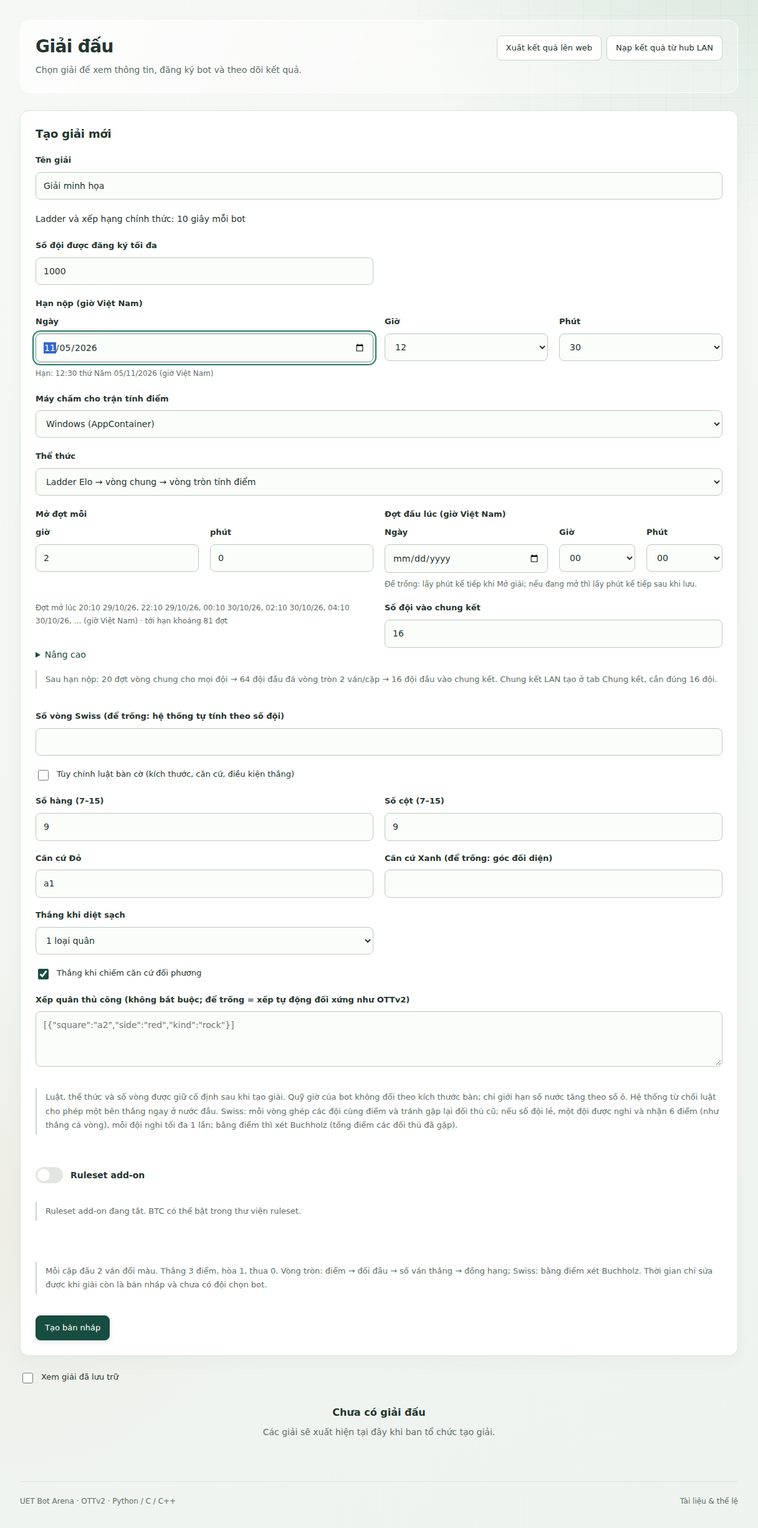
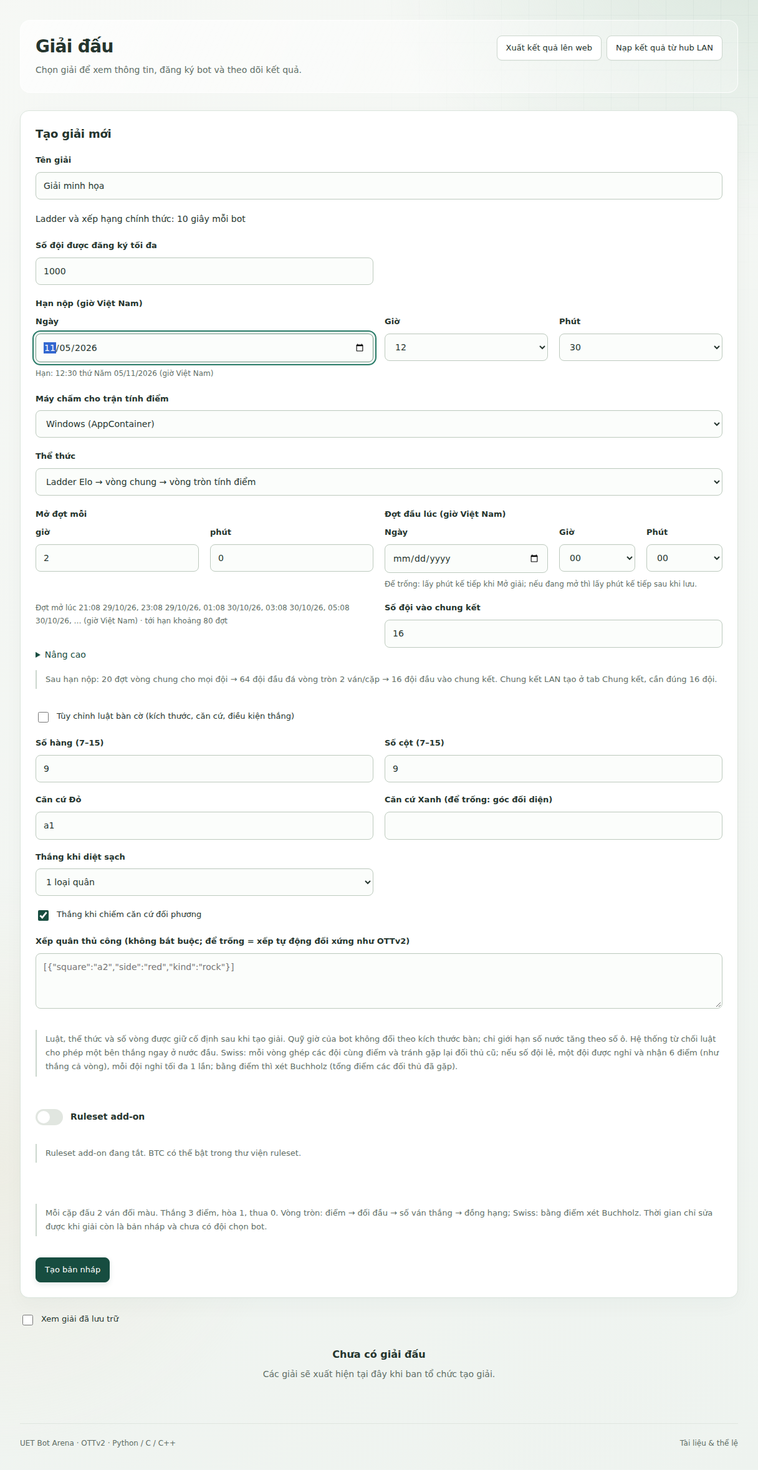
Thử nhanh ngay trên trang Luyện tập
Giữ luật bàn cờ Elo và luật đấu cũ; cập nhật test form và đội trưởng.

diff --git a/uet-bot-arena/dist/live/tournament-options.js b/uet-bot-arena/dist/live/tournament-options.js
@@ -33,7 +33,7 @@ export function updateLadderPreview(form){
 }
 
 export function tournamentOptions(){
-  return l10n`${vnDeadlineField('submission_deadline')}<label class="field"><span>Máy chấm cho trận tính điểm</span>${select('grader_platform',[['windows','Windows (AppContainer)'],['linux','Linux (bubblewrap)']])}</label><label class="field"><span>Thể thức</span>${select('format',[['elo',tr('Ladder Elo → vòng chung → vòng tròn tính điểm')],['double_round_robin',tr('Vòng tròn 2 lượt (tối đa 32 đội)')],['swiss',tr('Swiss (nhiều đội) · mỗi cặp 2 ván đổi màu')]])}</label><div data-elo-options><div class="form-grid">${ladderFields()}${field(tr('Số đội vào chung kết'),'finalists','min="1" max="128"','number','16')}</div><details><summary>Nâng cao</summary><div class="form-grid">${field(tr('Số đợt vòng chung'),'general-rounds','min="1" max="64"','number','20')}${field(tr('Số đội vòng tròn'),'group-size','min="2" max="128"','number','64')}${field(tr('Số ván chính thức đầu dùng K lớn'),'k-games','min="1"','number','20')}${field(tr('K ban đầu'),'first-k','min="1" max="64"','number','32')}${field(tr('K sau đó'),'later-k','min="1" max="64"','number','16')}</div>${note(tr('Vòng tròn: thắng 1, hòa ½, thua 0; không cập nhật Elo. Số đội không quá kích thước nhóm đầu thì bỏ vòng chung.'))}</details><p class="info-note" data-ranking-preview></p></div><p class="info-note" data-points-preview hidden>Xếp hạng theo điểm; không tự chọn đội chung kết.</p>${field(tr('Số vòng Swiss (để trống: hệ thống tự tính theo số đội)'),'rounds','min="1" max="64"','number')}<label class="check-field"><input type="checkbox" name="custom-basic">Tùy chỉnh luật bàn cờ (kích thước, căn cứ, điều kiện thắng)</label><div class="form-grid">${field(tr('Số hàng (7–15)'),'board-rows','min="7" max="15" required','number','9')}${field(tr('Số cột (7–15)'),'board-cols','min="7" max="15" required','number','9')}${field(tr('Căn cứ Đỏ'),'base-red','pattern="[a-o]([1-9]|1[0-5])" required','text','a1')}${field(tr('Căn cứ Xanh (để trống: góc đối diện)'),'base-blue','','text','')}<label class="field"><span>Thắng khi diệt sạch</span>${select('eliminate-types',[['1',tr('1 loại quân')],['2',tr('2 loại quân')]])}</label></div><label class="check-field"><input name="base-capture" type="checkbox" checked>Thắng khi chiếm căn cứ đối phương</label><label class="field"><span>Xếp quân thủ công (không bắt buộc; để trống = xếp tự động đối xứng như OTTv2)</span><textarea class="input" name="placement" rows="3" placeholder='[{"square":"a2","side":"red","kind":"rock"}]'></textarea></label>${note(tr('Luật, thể thức và số vòng được giữ cố định sau khi tạo giải. Quỹ giờ của bot không đổi theo kích thước bàn; chỉ giới hạn số nước tăng theo số ô. Hệ thống từ chối luật cho phép một bên thắng ngay ở nước đầu. Swiss: mỗi vòng ghép các đội cùng điểm và tránh gặp lại đối thủ cũ; nếu số đội lẻ, một đội được nghỉ và nhận 6 điểm (như thắng cả vòng), mỗi đội nghỉ tối đa 1 lần; bằng điểm thì xét Buchholz (tổng điểm các đối thủ đã gặp).'))}`;
+  return l10n`${vnDeadlineField('submission_deadline')}<label class="field"><span>Máy chấm cho trận tính điểm</span>${select('grader_platform',[['windows','Windows (AppContainer)'],['linux','Linux (bubblewrap)']])}</label><label class="field"><span>Thể thức</span>${select('format',[['elo',tr('Ladder Elo → vòng chung → vòng tròn tính điểm')],['double_round_robin',tr('Vòng tròn 2 lượt (tối đa 32 đội)')],['swiss',tr('Swiss (nhiều đội) · mỗi cặp 2 ván đổi màu')]])}</label><div data-elo-options><div class="form-grid">${ladderFields()}${field(tr('Số đội vào chung kết'),'finalists','min="1" max="128"','number','16')}</div><details><summary>Nâng cao</summary><div class="form-grid">${field(tr('Số đợt vòng chung'),'general-rounds','min="1" max="64"','number','20')}${field(tr('Số đội vòng tròn'),'group-size','min="2" max="128"','number','64')}${field(tr('Số ván chính thức đầu dùng K lớn'),'k-games','min="1"','number','20')}${field(tr('K ban đầu'),'first-k','min="1" max="64"','number','32')}${field(tr('K sau đó'),'later-k','min="1" max="64"','number','16')}</div>${note(tr('Vòng tròn: thắng 1, hòa ½, thua 0; không cập nhật Elo. Số đội không quá kích thước nhóm đầu thì bỏ vòng chung.'))}</details><p class="info-note" data-ranking-preview></p></div><p class="info-note" data-points-preview hidden>Xếp hạng theo điểm; không tự chọn đội chung kết.</p><div data-swiss-rounds hidden>${field(tr('Số vòng Swiss (để trống: hệ thống tự tính theo số đội)'),'rounds','min="1" max="64"','number')}</div><label class="check-field"><input type="checkbox" name="custom-basic">Tùy chỉnh luật bàn cờ (kích thước, căn cứ, điều kiện thắng)</label><div class="form-grid">${field(tr('Số hàng (7–15)'),'board-rows','min="7" max="15" required','number','9')}${field(tr('Số cột (7–15)'),'board-cols','min="7" max="15" required','number','9')}${field(tr('Căn cứ Đỏ'),'base-red','pattern="[a-o]([1-9]|1[0-5])" required','text','a1')}${field(tr('Căn cứ Xanh (để trống: góc đối diện)'),'base-blue','','text','')}<label class="field"><span>Thắng khi diệt sạch</span>${select('eliminate-types',[['1',tr('1 loại quân')],['2',tr('2 loại quân')]])}</label></div><label class="check-field"><input name="base-capture" type="checkbox" checked>Thắng khi chiếm căn cứ đối phương</label><label class="field"><span>Xếp quân thủ công (không bắt buộc; để trống = xếp tự động đối xứng như OTTv2)</span><textarea class="input" name="placement" rows="3" placeholder='[{"square":"a2","side":"red","kind":"rock"}]'></textarea></label>${note(tr('Luật, thể thức và số vòng được giữ cố định sau khi tạo giải. Quỹ giờ của bot không đổi theo kích thước bàn; chỉ giới hạn số nước tăng theo số ô. Hệ thống từ chối luật cho phép một bên thắng ngay ở nước đầu. Swiss: mỗi vòng ghép các đội cùng điểm và tránh gặp lại đối thủ cũ; nếu số đội lẻ, một đội được nghỉ và nhận 6 điểm (như thắng cả vòng), mỗi đội nghỉ tối đa 1 lần; bằng điểm thì xét Buchholz (tổng điểm các đối thủ đã gặp).'))}`;
 }
 
 export function readTournamentOptions(data){
@@ -71,7 +71,8 @@ export function rankingPreview(data){
 }
 export function updateTournamentForm(form){
  if(form.id!=='competition-form')return;
- const elo=form.elements.format.value==='elo';
+ const elo=form.elements.format.value==='elo',swiss=form.elements.format.value==='swiss';
+ form.querySelector('[data-swiss-rounds]').hidden=!swiss;form.elements.rounds.disabled=!swiss;
  if(!form.dataset.capacityEdited)form.elements.max_teams.value=elo?'1000':'16';
  form.querySelector('[data-elo-options]').hidden=!elo;
  form.querySelector('[data-elo-options]').querySelectorAll('input,select').forEach(input=>input.disabled=!elo);

diff --git a/uet-bot-arena/dist/live/pages.js b/uet-bot-arena/dist/live/pages.js
@@ -1,4 +1,4 @@
-import {quickPractice} from './quick-practice.js';
+import {quickPractice,practiceDefaults} from './quick-practice.js';
 import {ladderInterval} from './ladder-clock.js';
 import {auditPage} from './audit-ui.js';
 import {importedBanner,resultsTools} from './imported-results.js';
@@ -71,8 +71,9 @@ function benchmark(s) {
   return `${head(tr('Kiểm tra bot'),tr('24 trạng thái × 3 lần, tổng 72 mẫu. Mỗi mẫu có tối đa 0,5 giây riêng, không dùng đồng hồ thi đấu.'))}${s.user?.role==='admin'?quickPractice(s):''}${panel(tr('Chạy kiểm tra'),s.submissions.length?form('benchmark-form',l10n`<div class="form-grid"><label class="field"><span>Phiên bản</span>${select('submission_id',s.submissions.map(x=>[x.id,submissionLabel(x)+' · '+runtimeLabel(x.runtime)+' · SDK v'+(x.protocol_version||2)]),s.selectedSubmission)}</label>${s.benchmarkCompetition?note(tr('Ghim nền tảng, bộ luật và binary theo giải: ')+s.competition?.title):''}</div>`+botRulesetField(s,[s.selectedSubmission||s.submissions[0]?.id],s.selectedRuleset)+note(tr('Đạt kiểm tra chưa bảo đảm bot đủ quỹ giờ cho cả ván; hãy luyện tập với thời gian thi đấu.'))+submit(tr('Kiểm tra trên máy chấm'))):empty(tr('Cần nộp bot trước'),s.user?.role==='admin'?tr('Dùng Thử nhanh ở trang này để nạp bot riêng của BTC.'):tr('Nộp bot qua GitHub tại trang Bot.')))}${panel(tr('Lịch sử kiểm tra'),jobTable(s,s.jobs.filter(j=>j.kind==='benchmark')))}`;
 }
 function practice(s) {
+  const selected=practiceDefaults(s);
   const options=s.submissions.map(x=>[x.id,submissionLabel(x)+' · '+runtimeLabel(x.runtime)+' · SDK v'+(x.protocol_version||2)]),opponents=[...options,...(s.sampleBots||[]).filter(b=>b.protocol_version===2).map(b=>['sample:'+b.id,tr('Bot mẫu BTC · ')+b.name])];
-  return `<div id="sample-practice">${head(tr('Luyện tập'),tr('Đấu giữa hai phiên bản của đội hoặc bot mẫu BTC; kết quả không tính vào giải.'))}${panel(tr('Trận luyện tập mới'),options.length?form('practice-form',l10n`<div class="form-grid"><label class="field"><span>Bot của đội</span>${select('red_submission_id',options)}</label><label class="field"><span>Đối thủ (phiên bản khác của đội hoặc bot mẫu BTC)</span>${select('blue_submission_id',opponents)}</label><label class="field"><span>Bot của đội cầm quân</span>${select('team_side',[['red',tr('Đỏ (đi trước)')],['blue',tr('Xanh')]])}</label></div>${timeField()}${note(tr('Mỗi bot có quỹ riêng cho cả trận. Chỉ chạy đồng hồ khi đến lượt; không cộng giây sau nước đi.'))}${botRulesetField(s,[s.submissions[0]?.id,s.submissions[0]?.id])}<label class="check-field"><input type="checkbox" name="delegate" required>Đội đồng ý: khi một bot hết quỹ giờ, server thay mặt đối thủ tuyên bố thua sau khoảng chờ 3 giây.</label>`+submit(tr('Tạo trận luyện tập'))):empty(tr('Chưa có bot'),tr('Nộp source Python, C hoặc C++ để thử một trận đầu tiên.')))}${panel(tr('Các trận của đội'),jobTable(s,s.jobs.filter(j=>j.kind==='match')))}</div>`;
+  return `<div id="sample-practice">${head(tr('Luyện tập'),tr('Dán code hoặc chọn file .py/.c/.cpp/.zip, chờ kiểm Đạt rồi đấu với bot mẫu hoặc bản khác của bạn.'))}${quickPractice(s)}${options.length?panel(tr('Trận luyện tập mới'),form('practice-form',l10n`<div class="form-grid"><label class="field"><span>Bot của đội</span>${select('red_submission_id',options,selected.red)}</label><label class="field"><span>Đối thủ (phiên bản khác của đội hoặc bot mẫu BTC)</span>${select('blue_submission_id',opponents,selected.blue)}</label><label class="field"><span>Bot của đội cầm quân</span>${select('team_side',[['red',tr('Đỏ (đi trước)')],['blue',tr('Xanh')]])}</label></div>${timeField()}${note(tr('Mỗi bot có quỹ riêng cho cả trận. Chỉ chạy đồng hồ khi đến lượt; không cộng giây sau nước đi.'))}${botRulesetField(s,[selected.red,selected.blue])}<label class="check-field"><input type="checkbox" name="delegate" required>Đội đồng ý: khi một bot hết quỹ giờ, server thay mặt đối thủ tuyên bố thua sau khoảng chờ 3 giây.</label>`+submit(tr('Tạo trận luyện tập')))):''}${panel(tr('Các trận của đội'),jobTable(s,s.jobs.filter(j=>j.kind==='match')))}</div>`;
 }
 function fixturesTable(s,rows) {
   return rows.length?table([tr('Trận'),tr('Đỏ · Đi trước'),tr('Xanh'),tr('Trạng thái / kết quả'),''],rows.map(f=>`<tr><td>#${f.ordinal}</td><td>${esc(teamName(s,f.red_team_id))}</td><td>${esc(teamName(s,f.blue_team_id))}</td><td>${badge(f.status)}${f.result?`<div class="muted">${esc(resultLabel(f.result,side=>teamName(s,f[side+'_team_id'])))}</div>`:''}</td><td>${link(`${f.status==='completed'?'replay':'arena'}/${f.competition_id}/${f.id}`,f.status==='completed'?'Replay':tr('Xem trận'),'small')}${s.user?.role==='admin'&&f.status==='attention'?button(tr('Xem lỗi'),'diagnostic',`data-fixture="${f.id}"`,'small'):''}</td></tr>`)):empty(tr('Chưa có lịch đấu'),tr('Lịch đấu được tạo sau khi ban tổ chức chốt bot.'));

diff --git a/uet-bot-arena/dist/live/people-ui.js b/uet-bot-arena/dist/live/people-ui.js
@@ -46,7 +46,8 @@ export function matchingPage(s){
 export function peopleAdminPage(s){
   const query=(s.peopleSearch||'').toLocaleLowerCase('vi'),teams=(s.teamChoices||[]).filter(t=>teamSearchText(t,s.people).includes(query)),users=matchingPeople(s),teamNames=new Map((s.teamChoices||[]).map(t=>[t.id,t.name])),policy=s.teamPolicy||{},merges=s.teamMerges||{};
   const deadline=form('team-deadline-form',vnDeadlineField('team-deadline',policy.team_deadline_ms)+submit(tr('Lưu hạn lập đội'))+note(tr('Đội đủ người tự chốt khi đến hạn. Đề xuất ghép người lẻ cần BTC xác nhận trong 48 giờ.')));
-  const rows=users.slice(0,50).map(p=>`<tr><td>${esc(p.display_name||p.username)}</td><td>${esc(p.email||p.username)}</td><td>${esc(teamNames.get(p.team_id)||tr('Chưa có đội'))}</td><td>${esc(roles[p.role]||p.role)}${p.is_judge?tr(' · Giám khảo'):''}</td>${s.selectedCompetition?`<td>${esc(participationLabel(p.participation))}</td>`:''}<td>${p.role!=='admin'?personActions(s,p):''}${p.role!=='admin'?button(p.locked?tr('Mở khóa'):tr('Khóa'),'person-lock',`data-user="${esc(p.id)}" data-locked="${!p.locked}"`,'small'):''}${p.role==='staff'?button(p.is_judge?tr('Thu hồi Giám khảo'):tr('Nâng Giám khảo'),'person-judge',`data-user="${esc(p.id)}" data-enabled="${!p.is_judge}"`,'small'):''}</td></tr>`);
+  const captains=new Set((s.teamChoices||[]).flatMap(t=>(t.roster||[]).filter(p=>p.captain).map(p=>p.id)));
+  const rows=users.slice(0,50).map(p=>`<tr><td>${esc(p.display_name||p.username)}</td><td>${esc(p.email||p.username)}</td><td>${esc(teamNames.get(p.team_id)||tr('Chưa có đội'))}</td><td>${esc(roles[p.role]||p.role)}${p.is_judge?tr(' · Giám khảo'):''}</td>${s.selectedCompetition?`<td>${esc(participationLabel(p.participation))}</td>`:''}<td>${p.role!=='admin'?personActions(s,p):''}${p.role!=='admin'?button(p.locked?tr('Mở khóa'):tr('Khóa'),'person-lock',`data-user="${esc(p.id)}" data-locked="${!p.locked}"`,'small'):''}${p.role==='staff'&&!captains.has(p.id)?button(p.is_judge?tr('Thu hồi Giám khảo'):tr('Nâng Giám khảo'),'person-judge',`data-user="${esc(p.id)}" data-enabled="${!p.is_judge}"`,'small'):''}</td></tr>`);
   const proposals=(merges.items||[]).map(p=>form('team-merge-'+p.id,`<p>${p.team_id?tr('Bổ sung vào ')+esc(p.team_name):tr('Lập đội mới')}: ${p.people.map(x=>esc(x.display_name)).join(', ')}</p>`+(p.team_id?'':field(tr('Tên đội mới'),'team-name','required maxlength="40"'))+l10n`<button class="btn primary" type="submit">Xác nhận ghép</button>`,`data-proposal="${esc(p.id)}"`)).join('');
   return '<div id="people-admin">'+head(tr('Người dùng & lập đội'),tr('Quản lý vai Giám khảo, hạn lập đội và thay đổi thành viên.'))+`<div class="admin-filters people-filters">${competitionFilter(s)}${field(tr('Tìm theo tên, email, MSSV hoặc đội'),'people-search','','search',s.peopleSearch||'')+`<label class="field"><span>${tr('Đội')}</span>${select('people-team-filter',[['all',tr('Tất cả')],['without',tr('Chưa có đội')],['with',tr('Có đội')]],s.peopleTeamFilter||'all')}</label>`}</div>`+panel(tr('Người dùng'),(!query?note(l10n`Gõ tên, email hoặc MSSV để tìm trong ${(s.people||[]).length} người`):'')+(users.length>50?note(l10n`Còn ${users.length-50} người, gõ thêm để thu hẹp`):'')+table([tr('Tên'),'Email / username',tr('Đội'),tr('Vai trò'),...(s.selectedCompetition?[tr('Trong giải')]:[]),tr('Thao tác')],rows))+panel(tr('Hạn lập đội'),deadline)+panel(tr('Đề xuất ghép người lẻ'),proposals||empty(tr('Chưa có đề xuất đủ bốn người')))+(merges.remainder?.length?note(tr('Còn ')+merges.remainder.length+tr(' người cần BTC xử lý tay.')):'')+panel(tr('Chỉnh thành viên đội'),teams.length?table([tr('Đội'),tr('Thành viên'),...(s.selectedCompetition?[tr('Trong giải')]:[])],teams.map(t=>`<tr><td>${esc(t.name)}</td><td>${(t.roster||[]).map(p=>esc(p.display_name)+(p.captain?tr(' (đội trưởng)'):'')).join(', ')}</td>${s.selectedCompetition?`<td>${esc(participationLabel(t.participation))}</td>`:''}</tr>`)):empty(tr('Chưa có đội')))+'</div>';
 }
@@ -55,7 +56,7 @@ function personActions(s,p){
  const attrs=`data-user="${esc(p.id)}"`;
  if(!p.team_id)return button(tr('Thêm vào đội'),'person-add',attrs,'small')+button(tr('Lập đội mới'),'person-create-team',attrs,'small');
  const team=(s.teamChoices||[]).find(t=>t.id===p.team_id);if(!team||team.archived_ms)return '';const captain=team.roster?.some(m=>m.id===p.id&&m.captain);
- return (!captain?button(tr('Làm đội trưởng'),'person-captain',attrs,'small'):'')+button(tr('Xóa khỏi đội'),'person-remove',attrs,'small danger');
+ return captain?'':button(tr('Làm đội trưởng'),'person-captain',attrs,'small')+button(tr('Xóa khỏi đội'),'person-remove',attrs,'small danger');
 }
 export function teamChoiceButtons(s,query='',selected=''){
  const teams=availableTeams(s,query);

diff --git a/uet-bot-arena/dist/live/quick-practice.js b/uet-bot-arena/dist/live/quick-practice.js
@@ -4,11 +4,18 @@ import {boardMarkup} from './board.js';
 import {resultLabel} from './result.js';
 
 export const submissionLabel=x=>(x.channel==='practice'?tr('Thử nhanh')+' · ':'')+x.version;
+export function practiceDefaults(s){
+  const passed=(s.submissions||[]).filter(x=>(s.jobs||[]).some(j=>j.kind==='benchmark'&&j.submission_ids.includes(x.id)&&j.status==='completed'&&(j.benchmark_summary||j.report)?.passed===true)).sort((a,b)=>(b.created_unix_ms||0)-(a.created_unix_ms||0));
+  const red=passed[0]?.id||s.submissions?.[0]?.id,sample=s.sampleBots?.find(b=>b.protocol_version===2);
+  return {red,blue:sample?'sample:'+sample.id:red};
+}
 export function quickPractice(s){
   if(!s.platform?.practice_upload||s.platform.team_zip_upload)return '';
   const rows=(s.submissions||[]).filter(x=>x.channel==='practice').map(x=>{
     const job=(s.jobs||[]).find(j=>j.kind==='benchmark'&&j.submission_ids.includes(x.id));
-    return `<li><code>${esc(x.version)}</code> ${job?link('jobs/'+job.id,tr('Log kiểm tra')):''}</li>`;
+    const done=job?.status==='completed',failed=job&&(['failed','aborted'].includes(job.status)||done&&!(job.benchmark_summary||job.report)?.passed);
+    const state=done&&!failed?tr('Đạt'):failed?tr('Lỗi'):tr('Đang kiểm');
+    return `<li data-key="practice-source-${esc(x.id)}"><code>${esc(x.version)}</code> <span class="practice-check-state">${state}</span> ${job?link('jobs/'+job.id,tr('Log kiểm tra')):''}</li>`;
   }).join('');
   return panel(tr('Thử nhanh không cần GitHub'),`<form id="quick-practice-form" class="real-form"><label class="field"><span>${tr('Ngôn ngữ')}</span>${select('runtime',[['cpp17','C++17'],['c11','C11'],['python3','Python 3']])}</label><label class="field"><span>${tr('Mã nguồn')}</span><textarea name="code" rows="16" class="practice-code" required spellcheck="false"></textarea></label><label class="field"><span>${tr('Chọn file')}</span><input type="file" id="practice-file" accept=".cpp,.c,.py,.zip"></label><button type="button" class="btn secondary" data-action="practice-example">${tr('Điền bot mẫu C++')}</button>${note(tr('Bản thử nhanh chỉ để kiểm 72 mẫu và luyện tập (đấu bot mẫu hoặc bản khác của đội). Giải đấu chỉ nhận commit GitHub.'))}${note(tr('Tối đa 10 bản thử nhanh mỗi giờ; file mã tối đa 200.000 byte hoặc ZIP tối đa 1 MiB.'))}${note(s.user?.role==='admin'?tr("Bot thử của BTC chỉ thuộc tài khoản hiện tại, không được dùng để đăng ký giải."):tr('Khi vào đội, Thử nhanh và Luyện tập dùng dữ liệu của đội; các bản cá nhân cũ không chuyển sang đội và không còn hiện ở đây.'))}${errors()}${submit(tr('Nạp và kiểm tra'))}</form>${rows?'<ul>'+rows+'</ul>':''}`);
 }

diff --git a/uet-bot-arena/dist/live/app.js b/uet-bot-arena/dist/live/app.js
@@ -192,7 +192,7 @@ async function openRoute(){
         competitionFeed.start();
       }
       mountBoard(fixture);
-    }else{render();watchElo(id);if(['team','submissions'].includes(s.route))watchGitHub(id);if(s.route==='jobs')watchJob(id);if(['register','recover','verify-email'].includes(s.route))watchEmail(id);}
+    }else{render();watchElo(id);if(['team','submissions','practice'].includes(s.route))watchGitHub(id);if(s.route==='jobs')watchJob(id);if(['register','recover','verify-email'].includes(s.route))watchEmail(id);}
   }catch(e){if(id!==generation)return;if(e.status===401){expired();return;}Object.assign(s,{loading:false,error:e.message,offline:!e.status});render();}
 }
 let eloPoll;
@@ -221,6 +221,12 @@ function watchElo(id){
 }
 function watchGitHub(id){
   githubPoll?.close();
+  if(s.user&&s.route==='practice'&&id===generation){
+    githubPoll=visiblePoll(async()=>{
+      const next=await api.request('/ui/page?view=practice',{poll:true});
+      if(id===generation){Object.assign(s,next);patchPage();}
+    },()=>s.jobs.some(j=>j.kind==='benchmark'&&!terminal(j.status))?3000:30000,{onError:handleError});return;
+  }
   if(!s.user?.team_id||!['team','submissions'].includes(s.route)||id!==generation)return;
   githubPoll=visiblePoll(async()=>{
     const next=await privatePage(api,s.route,true);

diff --git a/uet-bot-arena/dist/live/en.js b/uet-bot-arena/dist/live/en.js
@@ -1,5 +1,7 @@
 // English translations of static UI copy. User content is never looked up here.
 export default {
+  "Đang kiểm": "Checking",
+  "Dán code hoặc chọn file .py/.c/.cpp/.zip, chờ kiểm Đạt rồi đấu với bot mẫu hoặc bản khác của bạn.": "Paste code or select a .py/.c/.cpp/.zip file, wait for a pass, then play against the starter bot or another version of your bot.",
   "Bot thử của BTC chỉ thuộc tài khoản hiện tại, không được dùng để đăng ký giải.": "Organizer practice bots belong only to the current account and cannot enter competitions.",
   "BTC tạo trận luyện tập riêng": "Organizer created a private practice match",
   "BTC kiểm tra bot riêng": "Organizer checked a private bot",

diff --git a/docs/thi-sinh.md b/docs/thi-sinh.md
@@ -97,9 +97,9 @@ Lệnh đầu kiểm build, bắt tay và hai lượt đi; lệnh sau chơi mộ
 
 ## 5. Thử nhanh trên web
 
-Không cần có đội để thử nhanh hoặc luyện tập; muốn vào giải phải có đội đủ 4 người. Vào Nộp bot → Thử nhanh không cần GitHub, chọn Python 3 rồi dán mã hoặc chọn file `.py`; C/C++ dùng `.c`/`.cpp`. Bot nhiều file dùng `.zip` tối đa 1 MiB: nén thư mục `bot/` như repo mẫu, giữ một file chính `bot.py`, `bot.c` hoặc `bot.cpp` và file phụ cùng ngôn ngữ nằm phẳng trong đó; chọn đúng Ngôn ngữ trước khi nạp ZIP. Bấm Nạp và kiểm tra, chờ Đạt/Lỗi rồi mở Log kiểm tra của đúng bản để đọc chẩn đoán; xem [bước 15 có ảnh](huong-dan-demo.md#bước-15-thử-nhanh-không-cần-github).
+Không cần có đội để thử nhanh hoặc luyện tập; muốn vào giải phải có đội đủ 4 người. Vào Luyện tập → Thử nhanh không cần GitHub (vẫn có ở Nộp bot), chọn Python 3 rồi dán mã hoặc chọn file `.py`; C/C++ dùng `.c`/`.cpp`. Bot nhiều file dùng `.zip` tối đa 1 MiB: nén thư mục `bot/` như repo mẫu, giữ một file chính `bot.py`, `bot.c` hoặc `bot.cpp` và file phụ cùng ngôn ngữ nằm phẳng trong đó; chọn đúng Ngôn ngữ trước khi nạp ZIP. Bấm Nạp và kiểm tra, chờ Đạt/Lỗi rồi mở Log kiểm tra của đúng bản để đọc chẩn đoán; xem [bước 15 có ảnh](huong-dan-demo.md#bước-15-thử-nhanh-không-cần-github).
 
-Khi có bản Đạt, vào Luyện tập, chọn bản vừa nạp và bot mẫu làm đối thủ, xác nhận quyền tuyên bố hết giờ rồi tạo trận. Mở replay từ kết quả để xem từng nước; xem [bước 17](huong-dan-demo.md#bước-17-luyện-tập-với-bot-mẫu). Thử nhanh nhận tối đa 10 bản/giờ, file mã tối đa 200.000 byte hoặc ZIP tối đa 1 MiB; bản này chỉ để kiểm và luyện tập, không vào giải.
+Sau khi nạp, bản mới hiện ngay dưới khung Thử nhanh cùng trạng thái Đang kiểm / Đạt / Lỗi và link Log kiểm tra. Trang tự cập nhật, không cần tải lại. Khi Đạt, ô Bot của đội tự chọn bản Đạt mới nhất và đối thủ là bot mẫu BTC; kiểm lại quỹ giờ, xác nhận quyền tuyên bố hết giờ rồi tạo trận. Mở replay từ kết quả để xem từng nước; xem [bước 17](huong-dan-demo.md#bước-17-luyện-tập-với-bot-mẫu). Thử nhanh nhận tối đa 10 bản/giờ, file mã tối đa 200.000 byte hoặc ZIP tối đa 1 MiB; bản này chỉ để kiểm và luyện tập, không vào giải.
 
 Khi vào đội, Thử nhanh và Luyện tập chuyển sang dữ liệu của đội; bản cá nhân cũ không chuyển sang đội và không còn hiện ở đây.
 

diff --git a/docs/huong-dan-demo.md b/docs/huong-dan-demo.md
@@ -120,7 +120,7 @@ Push mã trong thư mục **bot/** lên nhánh **main**, sau đó mở **Nộp b
 
 ### Bước 15. Thử nhanh không cần GitHub
 
-Mở Nộp bot, xuống khung Thử nhanh không cần GitHub. Chưa có đội cũng dùng được. Chọn ngôn ngữ rồi dán mã, chọn file mã hoặc ZIP tối đa 1 MiB chứa `bot/` với một file chính và các file phụ cùng ngôn ngữ; có thể bấm Điền bot mẫu C++. Bấm Nạp và kiểm tra, mở log của bản thu-xxxxxxx để xem 72 mẫu. Khi Đạt, sang Luyện tập để đấu bot mẫu hoặc phiên bản khác của đội. Bản thử nhanh không được dùng để đăng ký giải.
+Mở Luyện tập, dùng khung Thử nhanh không cần GitHub ngay đầu trang. Chưa có đội cũng dùng được; khung này vẫn có ở Nộp bot và ở Kiểm tra bot của BTC. Chọn ngôn ngữ rồi dán mã, chọn file mã hoặc ZIP tối đa 1 MiB chứa `bot/` với một file chính và các file phụ cùng ngôn ngữ; có thể bấm Điền bot mẫu C++. Bấm Nạp và kiểm tra, mở log của bản thu-xxxxxxx để xem 72 mẫu. Bản vừa nạp hiện ngay bên dưới với trạng thái Đang kiểm / Đạt / Lỗi và link log; trang tự cập nhật. Khi Đạt, bản Đạt mới nhất cùng bot mẫu BTC được tự chọn ở phần tạo trận ngay bên dưới. Bản thử nhanh không được dùng để đăng ký giải.
 
 ![Thử nhanh bằng mã nguồn, file mã hoặc ZIP](img/h19-thu-nhanh.png)
 
@@ -136,7 +136,7 @@ Mở **Cá nhân & đội** hoặc **Tổng quan** để xem khung **Giải củ
 
 ### Bước 17. Luyện tập với bot mẫu
 
-Khi đã có bài hợp lệ, mở **Luyện tập**, chọn bài của đội và **Bot mẫu BTC**, giữ quỹ giờ phù hợp rồi bấm **Tạo trận luyện tập**. Website mở ván để xem trực tiếp hoặc replay; ván này không đổi Elo.
+Mở **Luyện tập**: nếu chưa có bot, dán code hoặc chọn file .py/.c/.cpp/.zip ở khung Thử nhanh đầu trang rồi chờ Đạt. Bản Đạt mới nhất và **Bot mẫu BTC** tự được chọn ở phần tạo trận; vẫn có thể đổi bản hoặc đối thủ. Kiểm quỹ giờ, xác nhận điều kiện hết giờ rồi bấm **Tạo trận luyện tập**. Website mở ván để xem trực tiếp hoặc replay; ván này không đổi Elo.
 
 ![Luyện tập với bot mẫu](img/h21-luyen-tap.png)
 
